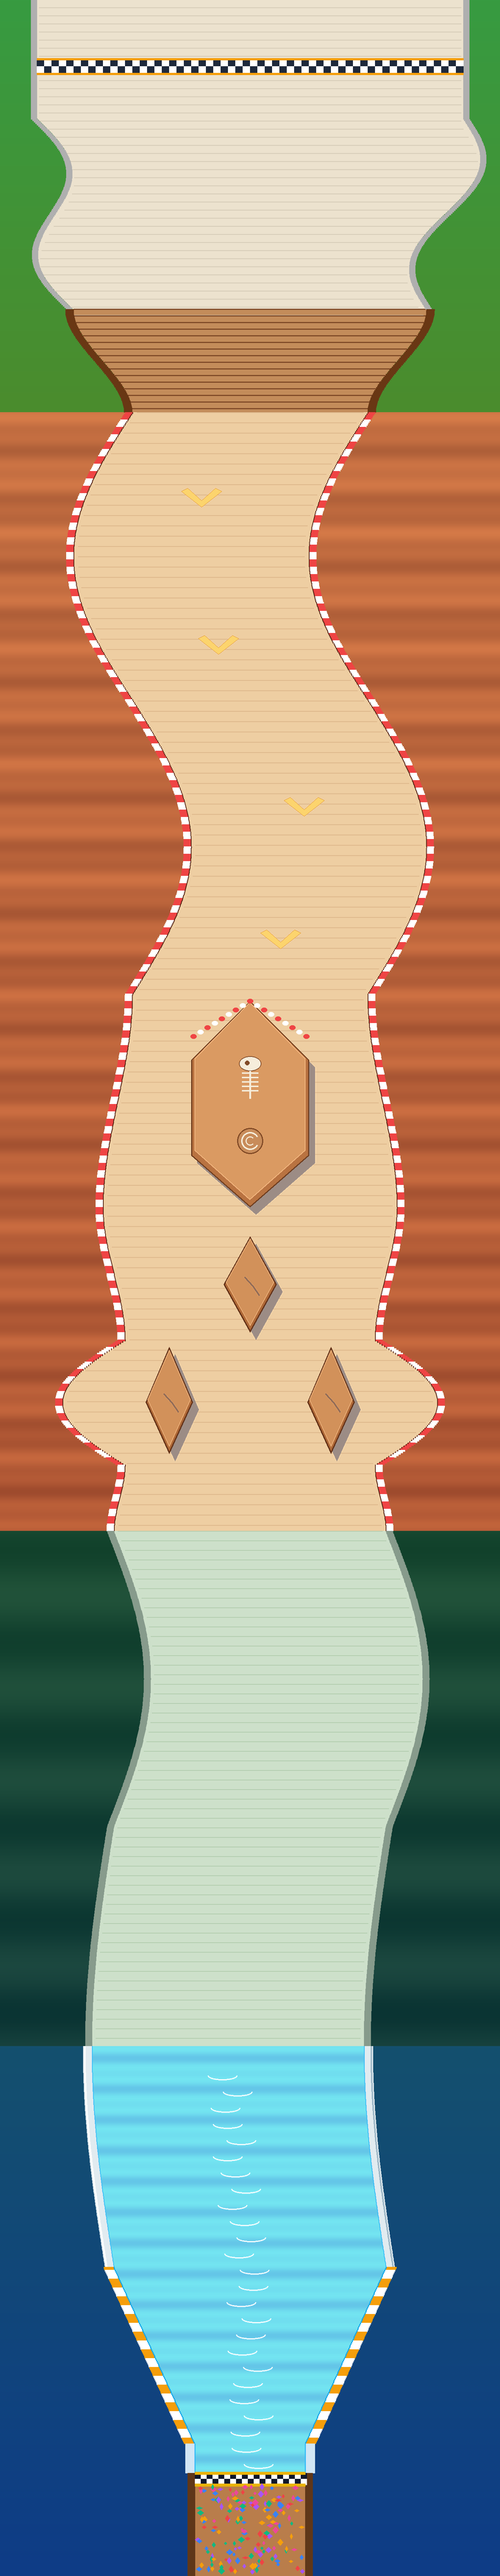
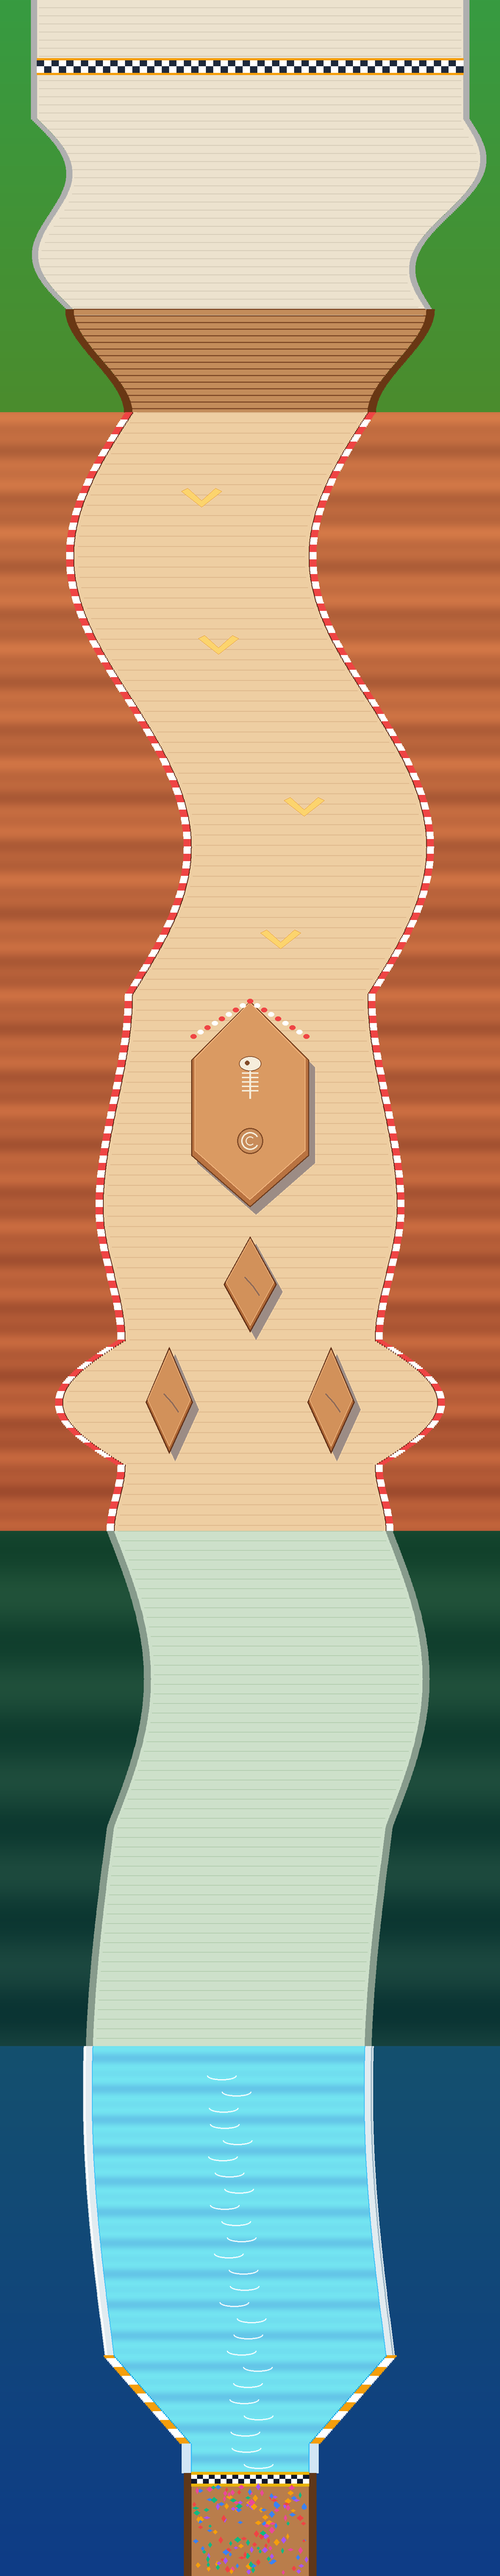
fix(race): restore funnel wall bounce, eliminate bottlenecks, unify single finish line, and halve arrival funnel length

Changed region(s): [[0.1544, 0.7163, 0.8029, 1.0], [0.4632, 0.8409, 0.4941, 0.9031]]

diff --git a/src/KnolTeacher.Desktop/Views/Windows/StudentPickerWindow.xaml b/src/KnolTeacher.Desktop/Views/Windows/StudentPickerWindow.xaml
@@ -162,11 +162,8 @@
                                    Source="pack://application:,,,/assets/race/cartoon_start_banner.png"/>
 
                             <!-- ================================================= -->
-                            <!-- FINISH WATER SLIDE & ARCH                         -->
+                            <!-- FINISH WATER SLIDE & CELEBRATION DOCK             -->
                             <!-- ================================================= -->
-                            <!-- 카툰 결승 아치 (Y = 3305 ~ 3370, 좁은 수로 130px 위에 완벽 배치) -->
-                            <Image Canvas.Left="245" Canvas.Top="3305" Width="190" Height="65"
-                                   Source="pack://application:,,,/assets/race/cartoon_finish_arch.png"/>
 
                             <!-- 결승 수로 동적 물보라 (골인 시 애니메이션 발동) -->
                             <Image x:Name="ImgWaterSplash" Canvas.Left="270" Canvas.Top="3330" Width="140" Height="70"

diff --git a/src/KnolTeacher.Desktop/Views/Windows/StudentPickerWindow.xaml.cs b/src/KnolTeacher.Desktop/Views/Windows/StudentPickerWindow.xaml.cs
@@ -134,10 +134,10 @@ public partial class StudentPickerWindow : Window
             left = c - hw;
             right = c + hw;
         }
-        else if (y <= 3080.0)
+        else if (y <= 3200.0)
         {
-            // Forest Meander 2 into River Rapids (stays wide and spacious!)
-            double t = (y - 2480.0) / (3080.0 - 2480.0);
+            // Forest Meander 2 into River Rapids (stays wide and spacious until 3200!)
+            double t = (y - 2480.0) / (3200.0 - 2480.0);
             double c = 340.0 - 30.0 * Math.Sin(t * Math.PI);
             double hw = 185.0; // width 370
             left = c - hw;
@@ -145,19 +145,19 @@ public partial class StudentPickerWindow : Window
         }
         else if (y <= 3320.0)
         {
-            // Classic Smooth Angled Diagonal Funnel ("깔대기")
-            // Over 240px, smoothly tapers diagonally from width 370 (hw 185) down to 150 (hw 75)
-            double t = (y - 3080.0) / (3320.0 - 3080.0);
+            // Compact Angled Funnel ("단축된 깔대기 입구 - 기존 240px의 절반인 120px로 단축")
+            // Over 120px, smoothly tapers diagonally from width 370 (hw 185) down to 160 (hw 80)
+            double t = (y - 3200.0) / (3320.0 - 3200.0);
             double c = 340.0;
-            double hw = 185.0 - 110.0 * t; // [155, 525] -> [265, 415]
+            double hw = 185.0 - 105.0 * t; // [155, 525] -> [260, 420]
             left = c - hw;
             right = c + hw;
         }
         else
         {
-            // Short Funnel Neck & Harbor Dock (Y = 3320 ~ 3500, width 150)
+            // Short Funnel Neck & Harbor Dock (Y = 3320 ~ 3500, width 160)
             double c = 340.0;
-            double hw = 75.0; // [265, 415]
+            double hw = 80.0; // [260, 420]
             left = c - hw;
             right = c + hw;
         }
@@ -385,16 +385,16 @@ public partial class StudentPickerWindow : Window
         _rails.Add(new RaceRail(418, 1905, 450, 1975, 14));
         _rails.Add(new RaceRail(482, 1905, 450, 1975, 14));
 
-        // 2. ROTATING LOGS (회전 통나무 동적 장애물!)
+        // 2. ROTATING LOGS (회전 통나무 동적 장애물 - 폭을 110px로 최적화하여 좌우 통로 120px 이상 완전 개방)
         // Upper Canyon Chicane: Clockwise Rotating Log
-        AddRotatingLog(275, 680, 150, 28, 2.2, 15);
+        AddRotatingLog(275, 680, 110, 22, 2.2, 15);
 
         // Fossil Mesa Twin Rapids Pebble Bumpers (시원하게 통과할 수 있도록 소형 조약돌 범퍼 배치 - 무병목 보장)
         AddBumper(195, 1540, 13, "cartoon_pebble_bumper.png");
         AddBumper(485, 1540, 13, "cartoon_pebble_bumper.png");
 
         // Lower Mushroom Forest: Heavy Rotating Log
-        AddRotatingLog(380, 2180, 150, 28, -2.0, 0);
+        AddRotatingLog(380, 2180, 110, 22, -2.0, 0);
 
         // 3. SMALL CARTOON BUMPERS & OBSTACLES (충분한 최소 간격을 보장하는 최적 분산 배치)
         // --- Meadow & Early Forest (Y = 240 ~ 600) ---
@@ -432,10 +432,10 @@ public partial class StudentPickerWindow : Window
         AddBumper(210, 2960, 14, "cartoon_pebble_bumper.png");
         AddBumper(470, 2960, 14, "cartoon_pebble_bumper.png");
 
-        // 도착지점 바로 직전(Y=3325)의 3개 비눗방울 관문 (도착 직전 3개로 충분!)
-        AddBubble(295, 3325, 22);
-        AddBubble(340, 3325, 24);
-        AddBubble(385, 3325, 22);
+        // 단축된 도착 구간 깔대기 직후(Y=3330)의 3개 비눗방울 관문 (도착 직전 3개로 충분!)
+        AddBubble(295, 3330, 20);
+        AddBubble(340, 3330, 22);
+        AddBubble(385, 3330, 20);
 
         // --- 5. Perched Animated Squirrels (5마리 청설모 솔방울 표창 투척) ---
         AddSquirrel(x: 95, y: 780, radius: 26, isFacingRight: true, startDelay: 0.3, projectileAsset: "cartoon_pinecone_shuriken.png");
@@ -769,18 +769,23 @@ public partial class StudentPickerWindow : Window
             r.X += r.Vx * dt;
             r.Y += r.Vy * dt;
 
-            // Anti-jam watchdog: actively propel any racer getting slow or stuck above finish
+            // Anti-jam & flow watchdog: actively propel any racer getting slow or stuck above finish
             if (r.Y > 160 && r.Y < FinishY)
             {
-                if (Math.Abs(r.Vx) < 14.0 && r.Vy < 30.0)
+                if (r.Vy < 35.0 && r.PinnedTimer <= 0)
+                {
+                    r.Vy += 90.0 * dt; // Gentle forward drive ensuring zero bottlenecks
+                }
+
+                if (Math.Abs(r.Vx) < 14.0 && r.Vy < 35.0)
                 {
                     r.StuckTimer += dt;
-                    if (r.StuckTimer > 0.25)
+                    if (r.StuckTimer > 0.20)
                     {
                         // Direct impulse downhill toward the track center
                         double centerNudge = (340.0 - r.X);
                         r.Vx += Math.Sign(centerNudge) * (50.0 + rand.NextDouble() * 30.0);
-                        r.Vy = Math.Max(r.Vy + 90.0, 130.0 + rand.NextDouble() * 60.0);
+                        r.Vy = Math.Max(r.Vy + 90.0, 140.0 + rand.NextDouble() * 60.0);
                         r.StuckTimer = 0;
                     }
                 }
@@ -800,15 +805,10 @@ public partial class StudentPickerWindow : Window
                     // Pinned to the left wall like a target hit by a shuriken!
                     r.PinToWall(-1, 1.35);
                 }
-                else if (r.Y >= 3080.0 && r.Y <= 3320.0)
-                {
-                    // Funnel sliding assist: guide inward & down the diagonal funnel slope!
-                    r.Vx = Math.Max(r.Vx, 45.0);
-                    r.Vy = Math.Max(r.Vy, 80.0);
-                }
                 else
                 {
-                    r.Vx = Math.Abs(r.Vx) * 0.75 + 25;
+                    // Regular bouncy wall collision (끝의 깔대기 구간도 미끄러지지 않고 기존 벽면처럼 통-! 튕김)
+                    r.Vx = Math.Abs(r.Vx) * 0.8 + 35.0;
                 }
             }
             else if (r.X + r.Radius > rightWall)
@@ -819,15 +819,10 @@ public partial class StudentPickerWindow : Window
                     // Pinned to the right wall like a target hit by a shuriken!
                     r.PinToWall(1, 1.35);
                 }
-                else if (r.Y >= 3080.0 && r.Y <= 3320.0)
-                {
-                    // Funnel sliding assist: guide inward & down the diagonal funnel slope!
-                    r.Vx = Math.Min(r.Vx, -45.0);
-                    r.Vy = Math.Max(r.Vy, 80.0);
-                }
                 else
                 {
-                    r.Vx = -Math.Abs(r.Vx) * 0.75 - 25;
+                    // Regular bouncy wall collision (끝의 깔대기 구간도 미끄러지지 않고 기존 벽면처럼 통-! 튕김)
+                    r.Vx = -Math.Abs(r.Vx) * 0.8 - 35.0;
                 }
             }
 
@@ -1013,9 +1008,10 @@ public partial class StudentPickerWindow : Window
                     double dot = r.Vx * nx + r.Vy * ny;
                     if (dot < 0)
                     {
-                        double boost = 1.35;
-                        r.Vx = (-dot * nx * boost) + (rand.NextDouble() - 0.5) * 50;
-                        r.Vy = (-dot * ny * boost) - 60;
+                        double boost = 1.25;
+                        r.Vx = (-dot * nx * boost) + (nx >= 0 ? 32.0 : -32.0);
+                        // Ensure balls deflect around the bumper without flying backwards into traffic
+                        r.Vy = Math.Max(-dot * ny * boost, 45.0);
                         bumper.Flash();
                     }
                 }
@@ -2309,7 +2305,7 @@ public class RotatingLog
                 double newRelVy = relVy + impulse * ny;
 
                 r.Vx = logVx + newRelVx + (rand.NextDouble() - 0.5) * 40;
-                r.Vy = logVy + newRelVy + 15;
+                r.Vy = Math.Max(logVy + newRelVy + 25, 45.0);
             }
             return true;
         }
